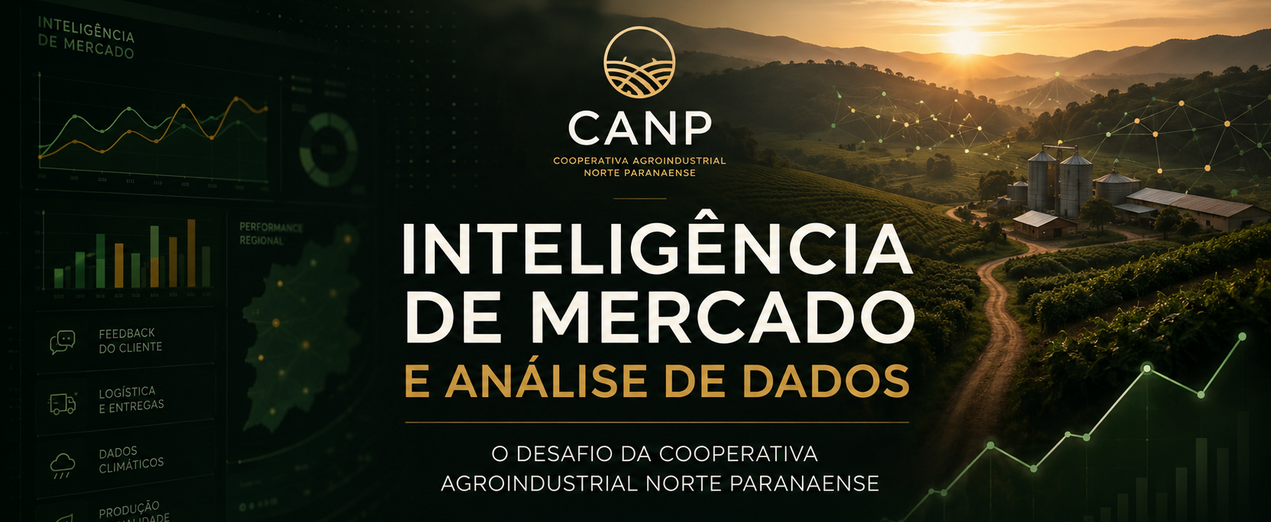
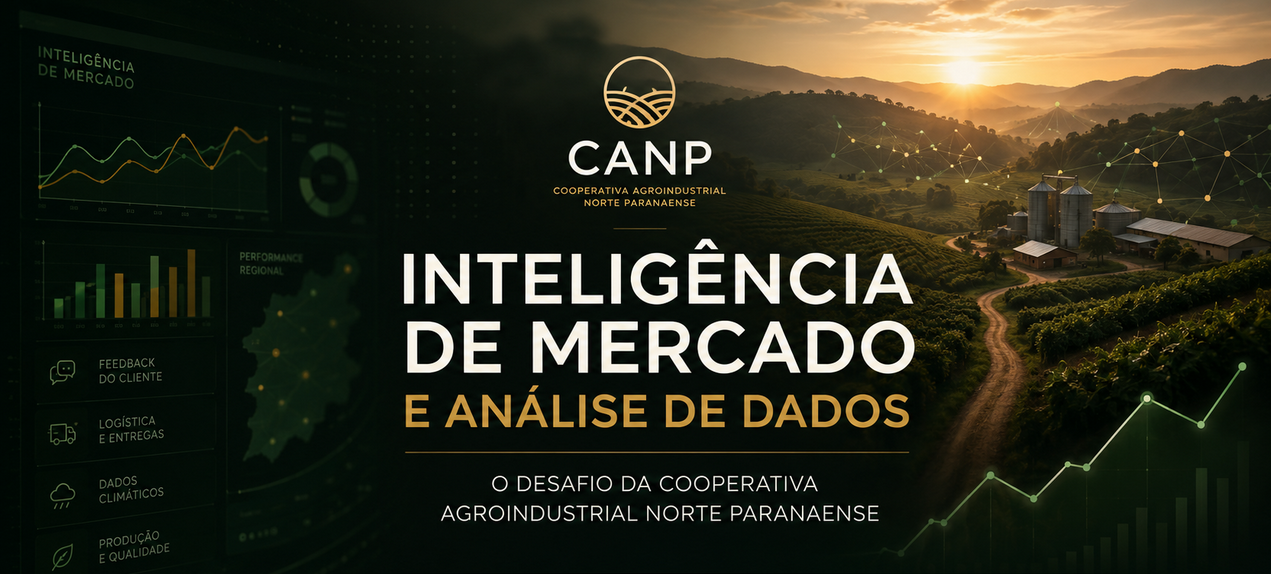
initial commit

diff --git a/index.html b/index.html
@@ -469,16 +469,19 @@ class Portfolio:
             <td>
               <div style="position: relative;">
                 <a href="https://rafa-trindade.github.io/cases/canp" target="_blank">
-                  <img src="docs/canp.png" alt="Imagem do projeto" style="width: 100%; border-radius: 5px;" />
+                  <img src="docs/canp.png" alt="Imagem do projeto"
+                    style="width: 100%; border-radius: 6px; border: 1px solid #30363d; box-sizing: border-box;" />
                 </a>
                 <div class="project-badges-screen">
                   <a href="https://rafa-trindade.github.io/cases/canp" target="_blank">
                     <img
-                      src="https://img.shields.io/badge/-Case%20Estratégico-2B5482?style=flat&logo=readthedocs&logoColor=fff&labelColor=1D3557" />
+                      src="https://img.shields.io/badge/-Case%20Estratégico-2B5482?style=flat&logo=googleanalytics&logoColor=fff&labelColor=1D3557" />
                   </a>
                 </div>
               </div>
             </td>
+
+
             <td></td>
             <td></td>
 
@@ -625,7 +628,8 @@ class Portfolio:
             <td>
               <div style="position: relative;">
                 <a href="https://github.com/rafa-trindade/kaggle-datahub" target="_blank">
-                  <img src="docs/kaggle_banner.png" alt="Imagem do projeto" style="width: 100%; border-radius: 5px;" />
+                  <img src="docs/kaggle_banner.png" alt="Imagem do projeto"
+                    style="width: 100%; border-radius: 6px; border: 1px solid #30363d; box-sizing: border-box;" />
                 </a>
                 <div class="project-badges-screen">
                   <a href="https://github.com/rafa-trindade/kaggle-datahub" target="_blank">
@@ -643,7 +647,8 @@ class Portfolio:
             <td>
               <div style="position: relative;">
                 <a href="https://github.com/rafa-trindade/flor-de-aco" target="_blank">
-                  <img src="docs/flor-aco.png" alt="Imagem do projeto" style="width: 100%; border-radius: 5px;" />
+                  <img src="docs/flor-aco.png" alt="Imagem do projeto"
+                    style="width: 100%; border-radius: 6px; border: 1px solid #30363d; box-sizing: border-box;" />
                 </a>
                 <div class="project-badges-screen">
                   <a href="https://github.com/rafa-trindade/flor-de-aco" target="_blank">
@@ -665,7 +670,8 @@ class Portfolio:
             <td>
               <div style="position: relative;">
                 <a href="https://github.com/rafa-trindade/oncoped-360" target="_blank">
-                  <img src="docs/oncoped-360.png" alt="Imagem do projeto" style="width: 100%; border-radius: 5px;" />
+                  <img src="docs/oncoped-360.png" alt="Imagem do projeto"
+                    style="width: 100%; border-radius: 6px; border: 1px solid #30363d; box-sizing: border-box;" />
                 </a>
                 <div class="project-badges-screen">
                   <a href="https://github.com/rafa-trindade/oncoped-360" target="_blank">